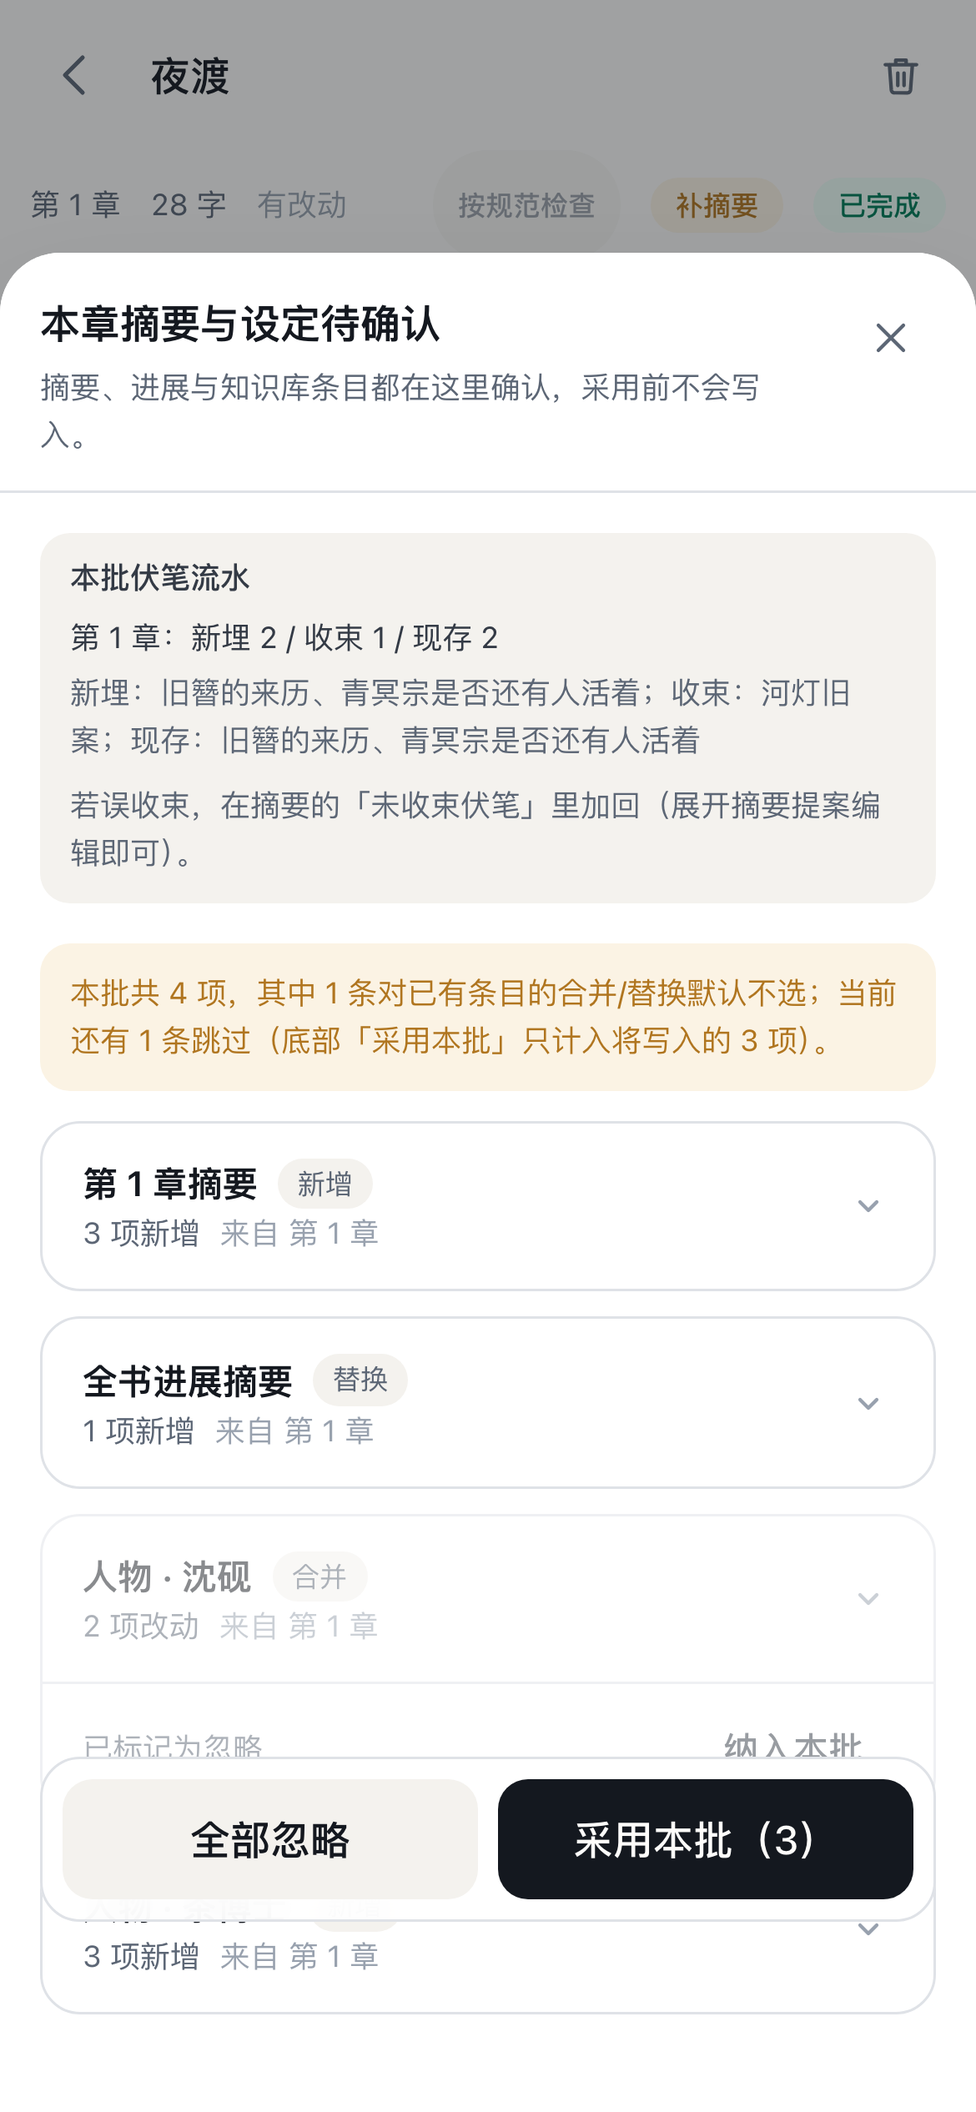
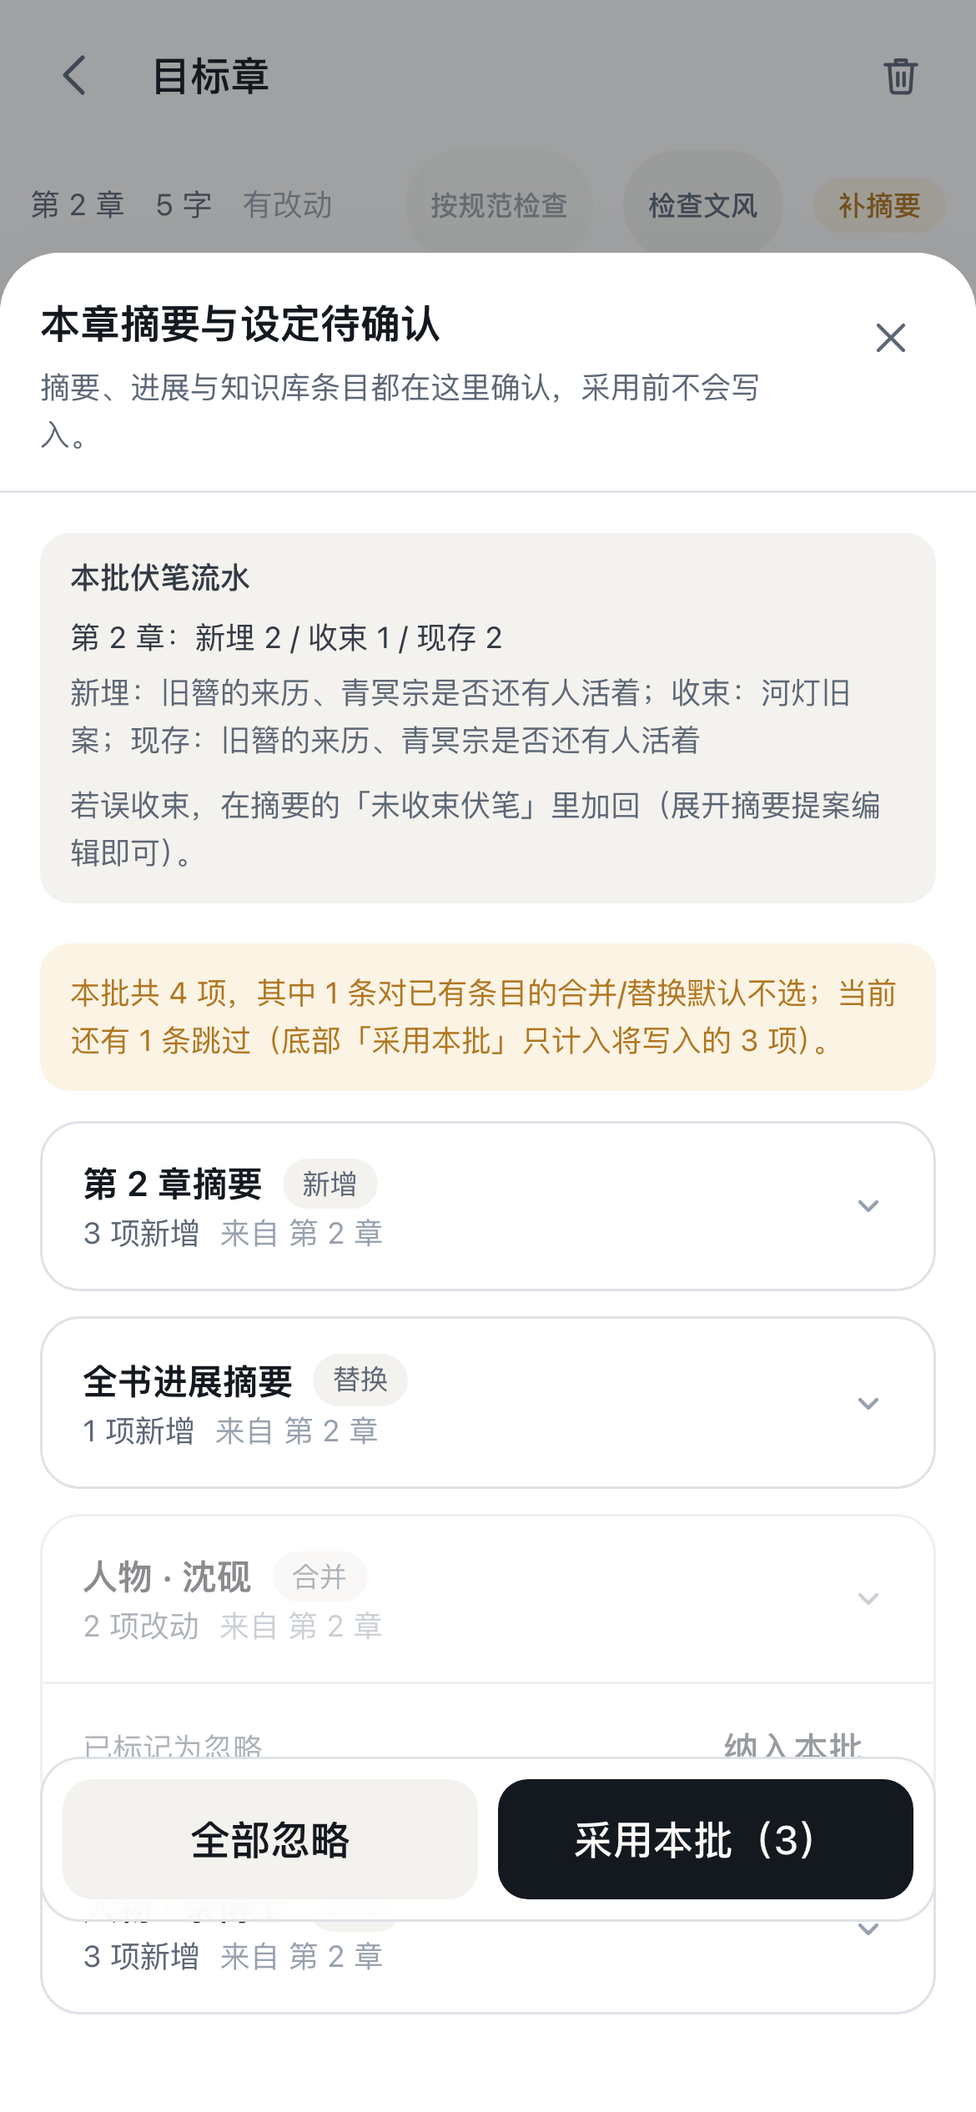
全项目最终回归：M1–M4.1 门禁通过 + device-check 16 页 + docs 一致性修正
- device-check 重跑（M4 检查文风入口/idle/结果）：iPhone 13 390×844 与桌面 1280×900 各 8 页，0 横向溢出/0 控制台错误/关键按钮可用；刷新后 IndexedDB+localStorage 保持
- 默认并行/串行均 131 files / 2546 tests 通过 + 5 skipped；typecheck/build 通过
- 修正 docs 4 处陈旧描述：severity 新三档、进展摘要按批合并、批次「最多 5 章或 24h」、锚点无已完成章时回落草稿
- 新增 ux/final-regression.md 汇总 M1–M4.1 状态与遗留 P2/P3/TODO

diff --git a/docs/使用说明.md b/docs/使用说明.md
@@ -151,7 +151,7 @@
 - 完成后变成「本章摘要与设定已生成：摘要 + N 条知识库更新待确认」+「查看」；点「查看」在一个收件箱里统一确认
 - 摘要包含本章摘要、关键事件、出场人物、**截至本章仍未收束的伏笔**、更新后的全书进展
 
-知识库条目会按 3–5 章一个批次归组，每章最多 3 条实质变化，新登场人物单独即时提案；同一章重复标记完成不会重复出提案。**不会自动落库，也不会自动改大纲状态**——都要你确认。
+知识库条目会按最多 5 章或 24h 一个批次归组，每章最多 3 条实质变化，新登场人物单独即时提案；同一章重复标记完成不会重复出提案。**不会自动落库，也不会自动改大纲状态**——都要你确认。
 
 收件箱里对**已有知识条目的合并/替换**默认标为「已标记为忽略」，不会被「采用本批」写入（摘要与进展仍默认选中）；要改旧条目，展开那条点「纳入本批」再采用。收件箱顶部会提示本批共几项、其中几条合并/替换默认不选；全部纳入后提示「已全部纳入」。顶部还会按章显示本章伏笔的「新埋 / 收束 / 现存」（没有历史伏笔时只写新埋），如果发现伏笔被误收束，在摘要的「未收束伏笔」里加回即可。
 
@@ -577,7 +577,7 @@ Ashford → 艾许佛   1 章未采用
 
 没有选中任何内容时，「续写」会从正文末尾接着写。
 
-**整章生成的目标字数**：来自大纲节点的「目标字数」，节点没填时按 3000 字。生成面板会显示这个值及来源（「大纲节点」或「默认 3000」），以及具体场景数参考（如「约 3–5 场」），要改请到「写作 → 大纲节点」里改。整章生成会在「本次注入」里自动带一段 **「文风锚点」**：从同一线更早的已完成章节里取开头约 600 字，标明「文风锚点 · 第 N 章开头」与 token；它只用于对齐你此前的语感，不会被照搬（清单下会写明这一点）。选择时优先已完成章；如果第一章开头没有对白，会自动选更早完成章里开头含对白的那一章，因为文风漂移往往先在对话里露出来。第一章或没有更早正文时不会出现这一项。
+**整章生成的目标字数**：来自大纲节点的「目标字数」，节点没填时按 3000 字。生成面板会显示这个值及来源（「大纲节点」或「默认 3000」），以及具体场景数参考（如「约 3–5 场」），要改请到「写作 → 大纲节点」里改。整章生成会在「本次注入」里自动带一段 **「文风锚点」**：优先从同一线更早的已完成章节里取开头约 600 字（没有已完成章时退回最早有正文的草稿），标明「文风锚点 · 第 N 章开头」与 token；它只用于对齐你此前的语感，不会被照搬（清单下会写明这一点）。选择时优先已完成章；如果第一章开头没有对白，会自动选更早完成章里开头含对白的那一章，因为文风漂移往往先在对话里露出来。第一章或没有更早正文时不会出现这一项。
 
 生成以梗概节拍为准：节拍不足时把一场写深，不会为了凑字数复述心理活动或堆景物。结果会同时显示「已生成 N 字 / 目标 M 字」；如果输出撞上模型上限被截断、或你中途点了停止，结果会明确标「生成未完成」，采用不完整内容前还会再确认一次。如果完整结果明显超出目标（超过 115%），标题会标「生成完成（超出目标）」，并提示「比目标多约 X 字」——你可以直接采用后手动删减，或把更紧凑的要求写进「本章额外要求」再生成；应用不会自动压缩，也不会硬卡字数。
 
@@ -594,7 +594,7 @@ Ashford → 艾许佛   1 章未采用
 标记完成后，后台会自动生成本章摘要与设定（摘要、全书进展、可选的知识库条目更新）。这些结果都是**待确认项**，编辑器状态行会提示「N 条待确认」+「查看」，不会自动落库，也不会自动改大纲状态。
 
 - **查看**：点状态行里的「查看」，在一个收件箱里逐条或整批采用本批摘要与设定；关掉不写。对已有条目的合并/替换默认跳过，需要时点「纳入本批」；顶部按章列出伏笔「新埋/收束/现存」
-- **批次**：知识库条目按 3–5 章归组，同名条目合并，每章最多 3 条实质变化；新登场人物单独即时提案
+- **批次**：知识库条目按最多 5 章或 24h 归组，同名条目合并，每章最多 3 条实质变化；新登场人物单独即时提案
 - **手动补摘要**：仍可点标题栏的「摘要 / 补摘要」重新提炼；如果本章已有待确认摘要，会提示「本章摘要与设定待确认」并替换旧的待确认摘要
 - **继续补写**：生成结果偏短或截断时，结果区会提示「还有场景没落地？」；点「继续补写」只补本章尚未落地的场景，不自动循环，也不是凑字数
 

diff --git a/.agents/tasks/outline-context-scene/ux/device-check/report.md b/.agents/tasks/outline-context-scene/ux/device-check/report.md
@@ -1,6 +1,6 @@
 # 真机形态自动检查报告（Chromium 设备模拟，非物理真机）
 
-> 生成时间：2026-10-28T14:48:23.739Z　脚本：`ux/device-check.mjs`（task-61）
+> 生成时间：2026-10-29T03:56:20.859Z　脚本：`ux/device-check.mjs`（task-61）
 > 说明：这是 Chromium 设备模拟，不是物理真机；物理真机人工项见文末清单。
 
 ## 1. 设备与环境
@@ -10,7 +10,7 @@
 | iPhone 13（模拟） | 390×844 | 是（hasTouch） | 3 | chrome-headless-shell（Playwright 设备模拟） |
 | Desktop（模拟） | 1280×900 | 否 | 1 | chrome-headless-shell |
 
-dev server：`http://localhost:5201`（脚本自启自停，端口 5201）；mock：`https://api.deepseek.com/**` 归档 extract JSON，共 2 次非流式请求。
+dev server：`http://localhost:5201`（脚本自启自停，端口 5201）；mock：`https://api.deepseek.com/**` 归档 extract JSON，共 4 次非流式请求。
 
 ## 2. 每页检查结果
 
@@ -21,11 +21,19 @@ dev server：`http://localhost:5201`（脚本自启自停，端口 5201）；moc
 | iPhone 13 | 写作页（大纲区） | ✅ 无（doc 390 / inner 390） | 规划后续 3–5 章大纲: ok | 0 |
 | iPhone 13 | 回溯预览 | ✅ 无（doc 390 / inner 390） | 生成 10 个章节节点: ok | 0 |
 | iPhone 13 | 续写面板 | ✅ 无（doc 390 / inner 390） | 规划 3 章大纲: ok；3 章: ok | 0 |
+| iPhone 13 | 生成面板（M4 锚点说明） | ✅ 无（doc 390 / inner 390） | 开始生成: ok | 0 |
 | iPhone 13 | 归档收件箱 + M2.1 安全提示 | ✅ 无（doc 390 / inner 390） | 纳入本批: ok；采用本批: ok | 0 |
+| iPhone 13 | 章节编辑器（M4 检查文风入口） | ✅ 无（doc 390 / inner 390） | 检查文风: ok | 0 |
+| iPhone 13 | 检查文风面板（idle） | ✅ 无（doc 390 / inner 390） | 检查文风: ok | 0 |
+| iPhone 13 | 检查文风结果 | ✅ 无（doc 390 / inner 390） | 完成: ok | 0 |
 | Desktop 1280×900 | 写作页（大纲区） | ✅ 无（doc 1280 / inner 1280） | 规划后续 3–5 章大纲: ok | 0 |
 | Desktop 1280×900 | 回溯预览 | ✅ 无（doc 1280 / inner 1280） | 生成 10 个章节节点: ok | 0 |
 | Desktop 1280×900 | 续写面板 | ✅ 无（doc 1280 / inner 1280） | 规划 3 章大纲: ok；3 章: ok | 0 |
+| Desktop 1280×900 | 生成面板（M4 锚点说明） | ✅ 无（doc 1280 / inner 1280） | 开始生成: ok | 0 |
 | Desktop 1280×900 | 归档收件箱 + M2.1 安全提示 | ✅ 无（doc 1280 / inner 1280） | 纳入本批: ok；采用本批: ok | 0 |
+| Desktop 1280×900 | 章节编辑器（M4 检查文风入口） | ✅ 无（doc 1280 / inner 1280） | 检查文风: ok | 0 |
+| Desktop 1280×900 | 检查文风面板（idle） | ✅ 无（doc 1280 / inner 1280） | 检查文风: ok | 0 |
+| Desktop 1280×900 | 检查文风结果 | ✅ 无（doc 1280 / inner 1280） | 完成: ok | 0 |
 
 ## 3. 报错
 
@@ -35,14 +43,15 @@ dev server：`http://localhost:5201`（脚本自启自停，端口 5201）；moc
 
 | 设备 | IndexedDB novels / chapters / outlines | archive-batch keys | archive-settings | llm-settings | active-novel |
 | --- | --- | --- | --- | --- | --- |
-| iPhone 13 | 2 / 11 / 2 | 1 | ✅ | ✅ | ✅ |
-| Desktop 1280×900 | 2 / 11 / 2 | 1 | ✅ | ✅ | ✅ |
+| iPhone 13 | 2 / 12 / 2 | 1 | ✅ | ✅ | ✅ |
+| Desktop 1280×900 | 2 / 12 / 2 | 1 | ✅ | ✅ | ✅ |
 
 ## 5. 截图
 
 - `ux/device-check/device-mobile-writing.png`
 - `ux/device-check/device-mobile-backfill.png`
 - `ux/device-check/device-mobile-archive.png`
+- `ux/device-check/device-mobile-stylecheck.png`
 - `ux/device-check/device-desktop-writing.png`
 
 ## 6. 结论
@@ -61,7 +70,9 @@ dev server：`http://localhost:5201`（脚本自启自停，端口 5201）；moc
 
 ## 8. 附：mock 请求记录
 
-- 2026-10-28T14:48:18.224Z stream=false model=deepseek-flash
-- 2026-10-28T14:48:22.624Z stream=false model=deepseek-flash
+- 2026-10-29T03:56:13.466Z stream=false model=deepseek-chat
+- 2026-10-29T03:56:14.505Z stream=false model=deepseek-chat
+- 2026-10-29T03:56:19.108Z stream=false model=deepseek-chat
+- 2026-10-29T03:56:19.738Z stream=false model=deepseek-chat
 
 （dev server 输出已省略；非空表示启动日志。）

diff --git a/docs/产品文档.md b/docs/产品文档.md
@@ -232,7 +232,7 @@
 
 > **为什么字数只给结构参考、不硬凑**：3000 字约 1–2 场、6000 字约 3–5 场，先保证梗概里的节拍全部落地；节拍不足时把一场写深，而不是用心理复述、景物堆砌凑字数。输出 token 上限只用于防截断（按目标推导、夹在安全区间），不作为字数控制器；截断与主动中止都会明确提示，避免半章被当成定稿。
 
-- **摘要链与章节归档**：把章节标记为「已完成」时，后台自动生成本章摘要与设定——章节摘要、关键事件、出场角色、未收束伏笔、全书进展，以及知识库条目更新（可在设置里关掉条目提取）。结果全部是**待确认提案**：编辑器只显示一条非阻塞状态行，不弹全屏面板、不自动落库。摘要与进展每章一条；知识库条目按 3–5 章一个归档批次归组，每章最多 3 条实质变化，新登场人物单独即时提案；同章重复归档幂等，不会重复出提案。作者点「查看」可统一确认本批摘要与设定；摘要链断了会提示「补摘要」。
+- **摘要链与章节归档**：把章节标记为「已完成」时，后台自动生成本章摘要与设定——章节摘要、关键事件、出场角色、未收束伏笔、全书进展，以及知识库条目更新（可在设置里关掉条目提取）。结果全部是**待确认提案**：编辑器只显示一条非阻塞状态行，不弹全屏面板、不自动落库。章节摘要每章一条；全书/外传进展摘要按批次合并为一条（采用时整体替换）；知识库条目按最多 5 章或 24h 一个归档批次归组，每章最多 3 条实质变化，新登场人物单独即时提案；同章重复归档幂等，不会重复出提案。作者点「查看」可统一确认本批摘要与设定；摘要链断了会提示「补摘要」。
   - **安全默认**：归档批次里「对已有知识条目的合并/替换」默认标记为忽略，不会被「采用本批」写入；摘要与进展默认选中、正常写入。需要改旧条目时，展开那条点「纳入本批」再采用。收件箱顶部会提示本批共几项、其中几条合并/替换默认不选；全部纳入后提示「已全部纳入」。
   - **伏笔流水**：收件箱顶部按章显示本章「新埋 / 收束 / 现存」；误收束的伏笔可以在摘要的「未收束伏笔」里加回。流水只存本地（7 天），丢失不影响提案与数据。
 - **大纲节点完成提示**：章节完成且同一大纲节点下的章节都完成时，编辑器提示「可以标为完成」；作者点击才写，不自动改状态
@@ -240,7 +240,7 @@
 
 > **为什么摘要要自动触发、但确认不能被打断**：摘要是后续所有章节的上下文来源。如果指望用户记得手动补，摘要链很快就会断；而断了之后的表现是「AI 越写越不记得前面的事」，用户往往归因为模型不行，其实是缺摘要。所以标记完成就自动生成；但生成完不抢焦点、不弹全屏付费面板，作者继续写或退出都行，提案留在待确认区，想处理时再「查看本批」。
 >
-> **为什么知识库条目要按 3–5 章归组、每章限 3 条**：逐章出提案会在几十章后堆出上百条内容高度重复的待确认项；按批归组、同名条目合并、只提实质变化，才能让「顺手更新知识库」不至于变成新的负担。新登场人物单独即时提案，是因为口吻与称呼一旦漂了，后面很难补回。
+> **为什么知识库条目要按「最多 5 章或 24h」归组、每章限 3 条**：逐章出提案会在几十章后堆出上百条内容高度重复的待确认项；按批归组、同名条目合并、只提实质变化，才能让「顺手更新知识库」不至于变成新的负担。新登场人物单独即时提案，是因为口吻与称呼一旦漂了，后面很难补回。
 
 **未收束伏笔的语义是「截至本章仍未收束的累计清单」**，不是「本章新埋的」。这样写下一章只取最近一份摘要就能拿到完整的待收束清单。
 

diff --git a/.agents/tasks/outline-context-scene/ux/final-regression.md b/.agents/tasks/outline-context-scene/ux/final-regression.md
@@ -1,0 +1,32 @@
+# 全项目最终回归（M1–M4.1，task-79）
+
+**结论：通过，可进入发布前真机验收（M5）。** 自动化、沙盒、设备模拟与真实 Key 抽检均绿；仅物理真机人工项与 4 处 docs P3 待 Lead 处理。
+
+## 1. 功能清单
+- **M1**：大纲细化（条目匹配/关联确认、场景卡细目）、整章生成结构件与截断防线、未完成稿留痕/已完成退草稿、UX P0/P1。
+- **M2**：完成后台归档（摘要+进展+条目提案、批次/幂等/设置/状态行/查看采用）、生成差额+手动继续补写；**M2.1**：安全默认（只对已有条目合并/替换默认忽略、「纳入本批」）、伏笔流水。
+- **M3**：导入作品 1:1 回溯大纲；前沿规划 3–5 章+续写细目；文案/版式打磨；**M3.2** 字数软引导+超出目标可见。
+- **M4**：文风锚点注入（生成侧）、文风漂移检查（只诊断/引用原文/basis/无改写）；**M4.1** 锚点优先含对白、注入说明、中性三档、成本边界。
+- 平台：DeepSeek 预设 `deepseek-chat`（常规=重点）；live 套件（无 Key 全 skip）。
+
+## 2. 状态
+- **测试**：默认并行/串行 **131 files passed + 1 skipped；2546 passed + 5 skipped**；typecheck/build 绿。QA 独立：m1 215、m2 88、m3 37、m4 35。
+- **沙盒**：after 11 + M2 9 + M2.1 3 + M3 5 + M3.2 1 + M4 2 = **31 张**截图；页面异常 0。
+- **设备模拟**：iPhone 13（390×844/touch/DPR3）与桌面 1280×900 各 8 页（含 M4 锚点说明、检查文风入口/idle/结果）；**0 横向溢出、0 console/pageerror、0 未处理 Promise**；刷新后 IndexedDB/localStorage 保持；5 张截图。
+- **live**：无 Key 不影响全量；真实 Key（Lead）：A/B 通过；C 3000→3306（110%，未触发超出），6000 偏短由补写闭环；D style-check 5 issue、5/5 excerpt 逐字命中、basis 非空；`deepseek-chat` 生效、缓存命中 79–90%+。
+- **真机**：物理真机未做，按 `ux/device-check/report.md` §7 人工清单（扫码访问、主屏安装/safe-area、触摸滚动/软键盘、iOS 存储驱逐、真实网络/字体/读屏）。
+
+## 3. 遗留 P2/P3
+- P2：锚点自动选「最早已完成（优先含对白）」且不可手工换（留 M4.2）；对白只看开头 600 字（有意）。
+- P2：真实模型中后期长章抽检样本少；style-check live D 仅小样本。
+- P2：物理真机 + 真实 Key 的完整人工回归待做。
+- P3：续写落点固定末卷/顶层、回溯不自动分卷（design 非目标）。
+- P3：M2/M3 期累计修复 6+ 处 load-sensitive 测试等待；CI 建议固定串行或保留等待加固。
+
+## 4. docs 与行为不一致（只列出，未改 docs）
+1. `docs/开发计划.md:1716`（M4「关键决定」）仍写旧三档「差异较大/局部差异/轻微差异」，与实现及同文件 1738 行 M4.1「差异较大/有所差异/略有差异」矛盾。
+2. `docs/产品文档.md:235`「摘要与进展每章一条」不准确：摘要按章一条，**进展提案同批只保留一条**（M2-S2b）。
+3. `docs/产品文档.md:235/243`、`docs/使用说明.md:154/597`「按 3–5 章一个批次」：实现为**最多 5 章或 24h 轮转**（开发计划 1558 已写对），「3–5」是典型值而非上限。
+4. `docs/使用说明.md:580` 首句「从…已完成章节里取」易读成只用完成章；实际无已完成时回落到最早有正文的草稿（后句「优先已完成章」可消歧，建议明说）。
+
+> 证据索引：`ux/m1…m4.1-verification.md`、`ux/walkthrough.md`、`ux/device-check/report.md`、`ux/shots/`。

diff --git a/docs/开发计划.md b/docs/开发计划.md
@@ -1547,7 +1547,7 @@
 **背景**：用户希望「写完的章节自动更新摘要及知识库，并标注完成」，同时章节字数与目标落差要有补写路径。M1 已经做到「截断可见、目标来源可见」，M2 补上完成后的归档闭环：
 
 - 标记完成不再自动弹出全屏摘要面板并扣费；改为后台一次调用生成摘要/进展/知识库条目提案，编辑器只显示非阻塞状态行。
-- 知识库条目按 3–5 章一个归档批次归组，每章最多 3 条实质变化；新登场人物单独即时提案；同章重复归档幂等。
+- 知识库条目按最多 5 章或 24h 一个归档批次归组，每章最多 3 条实质变化；新登场人物单独即时提案；同章重复归档幂等。
 - 不自动落库、不自动改大纲状态：待确认提案在「查看本批档案」里统一采用；大纲节点完成只提示、点击才写。
 - 生成结果偏短/截断时可手动「继续补写未落地场景」，不自动循环到目标字数。
 
@@ -1713,7 +1713,7 @@ M3 后按文学顾问 P2/P3 与 M2.1 记录做一轮小打磨，不扩散到 M2 
 - **只诊断，不改稿**：文风是作者最不愿被机器替改的部分；不做自动润色/压缩/替换，不生成提案。
 - **锚点自动选自作者本人正文**：确定性、不调模型、不新增字段；第一章/无更早正文不注入，保持旧 prompt 逐字节不变。
 - **锚点走预算裁剪**：不是强制注入；极端预算下作者能在「本次注入」看到 dropped 原因。
-- **severity 中性化**：差异较大/局部差异/轻微差异，避免「明显偏离」的判决口吻；每条必须有 basis，说明与锚点的可观察差异。
+- **severity 中性化**：差异较大/有所差异/略有差异，避免「明显偏离」的判决口吻；每条必须有 basis，说明与锚点的可观察差异。
 
 **验证结果**：
 
